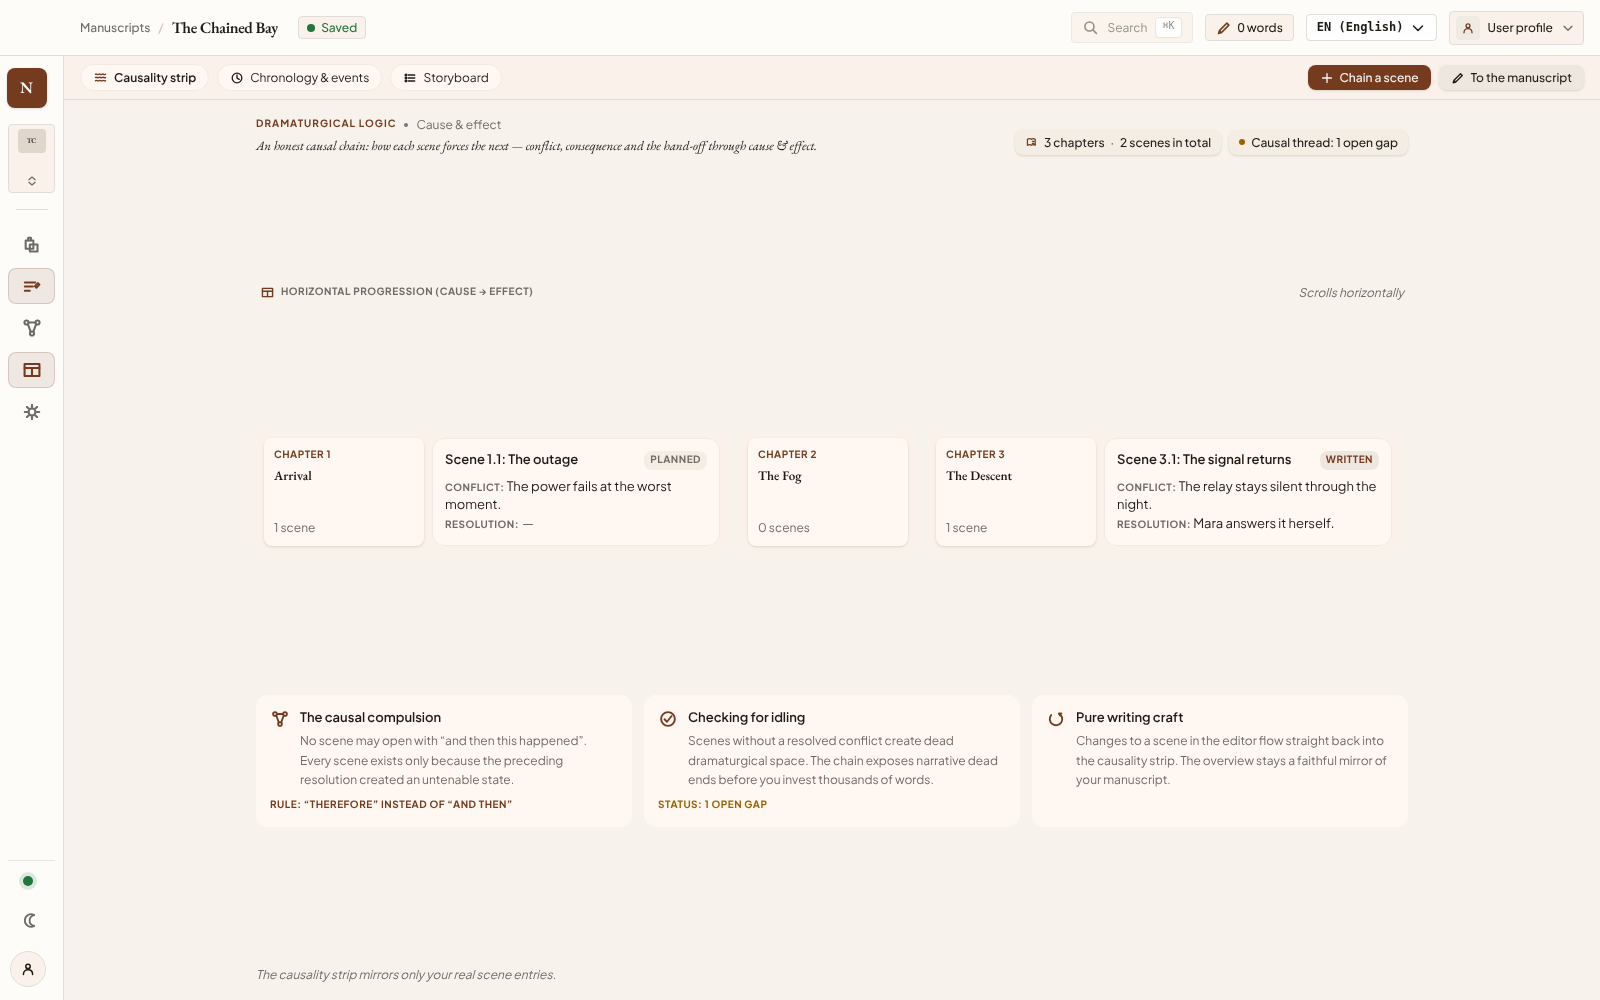
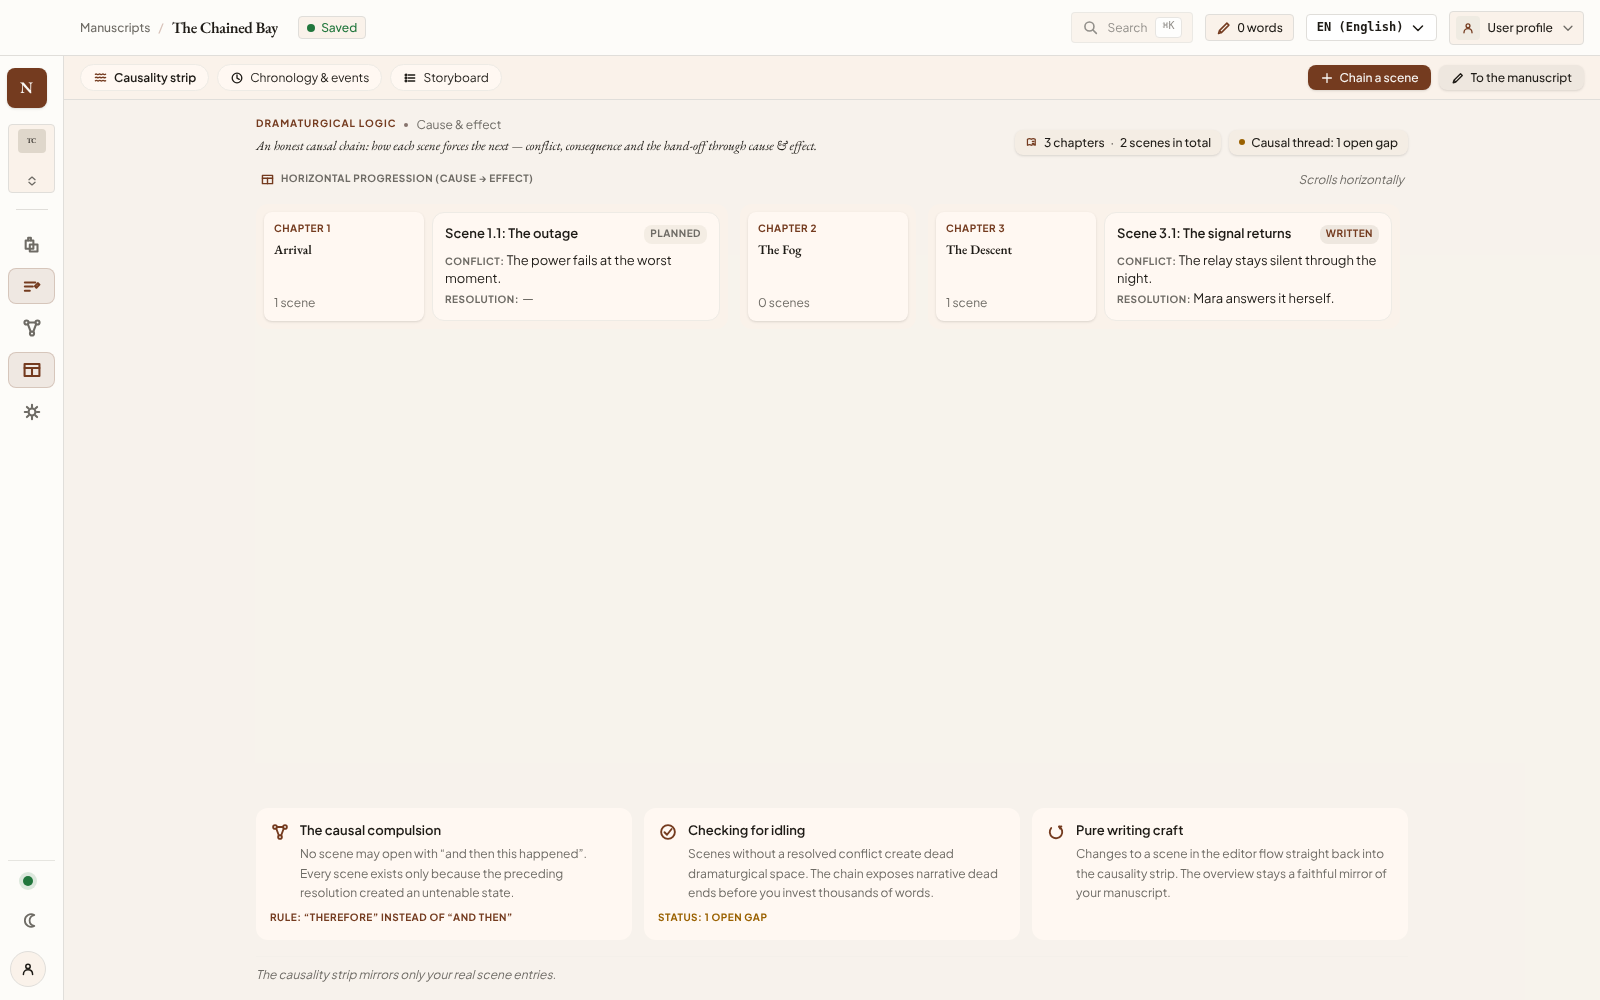
fix(planning): group causality content without stretching
Regroup the causality page's existing blocks into three visual groups:
the subline/count chips, the track header with its track in a flexible
middle column, and the methodology row with the footnote. The outer
column keeps min-h-full but no longer uses justify-between, so only the
middle group absorbs the spare height and the page shows one intentional
vertical gap instead of four stretched voids.

Add capture-time gap assertions for the three intra-group seams (48 px
ceiling). The previous stretched layout measured 129.9, 129.9 and 128.9
px across those seams and fails them; the grouped layout measures 16, 16
and 16 px while the footnote still ends 16 px above the viewport foot.
The middle group stays content-sized, so a taller page scrolls normally.

Update the stale German manuscript-excerpts assertion in the graph E2E to
the new dossier copy and run that leg.

Two independent full captures are byte-identical; only 27 changed, and
the sibling-staging publish path left no debris.

User-visible: The causality screenshot now keeps related blocks together and leaves one deliberate breathing space instead of four evenly stretched gaps.
Assisted-by: OpenCode (deepseek-v4.1-flash)

diff --git a/app/capabilities/planning/web/CausalityPage.tsx b/app/capabilities/planning/web/CausalityPage.tsx
@@ -412,10 +412,10 @@ export function CausalityPage() {
         /* The draft's face: the subline block with the real-count chips,
            the horizontally scrollable chain, the methodology row. */
         <div className="min-h-0 flex-1 overflow-y-auto bg-surface-container-low/30 p-4">
-          <div className="mx-auto flex min-h-full max-w-6xl flex-col justify-between gap-4">
-            {/* The subline — the draft's eyebrow, its honest sentence and
+          <div className="mx-auto flex min-h-full max-w-6xl flex-col gap-4">
+            {/* The top group — the draft's eyebrow, its honest sentence and
                 the real-count chips. */}
-            <div className="flex flex-wrap items-end justify-between gap-3">
+            <div data-testid="causality-subline" className="flex flex-wrap items-end justify-between gap-3">
               <div className="flex max-w-xl flex-col gap-1">
                 <div className="flex items-center gap-2">
                   <span className="text-[10px] font-bold uppercase tracking-widest text-primary">
@@ -463,67 +463,76 @@ export function CausalityPage() {
               </div>
             </div>
 
-            {/* The track header — the chain reads left-to-right; the
-                scroll affordance names itself. */}
-            <div className="flex items-center justify-between px-1">
-              <h2 className="flex items-center gap-1.5 text-[10px] font-bold uppercase tracking-wider text-muted">
-                <span className="text-primary">
-                  <Icon name="schema" size={15} />
-                </span>
-                {t("planning.causality.trackLabel")}
-              </h2>
-              <span className="text-meta italic text-muted">{t("planning.causality.trackHint")}</span>
-            </div>
+            {/* The middle group — the track header and the chain together.
+                Its flex-1 share is the page's one intentional vertical gap,
+                which stands between this group and the methodology row. */}
+            <div className="flex flex-1 flex-col gap-4">
+              {/* The track header — the chain reads left-to-right; the
+                  scroll affordance names itself. */}
+              <div data-testid="causality-track-header" className="flex items-center justify-between px-1">
+                <h2 className="flex items-center gap-1.5 text-[10px] font-bold uppercase tracking-wider text-muted">
+                  <span className="text-primary">
+                    <Icon name="schema" size={15} />
+                  </span>
+                  {t("planning.causality.trackLabel")}
+                </h2>
+                <span className="text-meta italic text-muted">{t("planning.causality.trackHint")}</span>
+              </div>
 
-            {/* The chain — the draft's horizontally scrollable track, the
-                chapter groups left-to-right with their connectors. The
-                tabIndex keeps the scrollable region on the keyboard (the
-                scrollable-region rule the axe floor runs). */}
-            <div
-              data-testid="causality-track"
-              aria-label={t("planning.causality.trackLabel")}
-              tabIndex={0}
-              className="w-full overflow-x-auto pb-2"
-            >
-              <div className="inline-flex min-w-max items-stretch gap-3 pr-3">
-                {chain.map((entry, index) =>
-                  chapterGroup(entry, index > 0 && (chain[index - 1]?.scenes.length ?? 0) > 0),
-                )}
+              {/* The chain — the draft's horizontally scrollable track, the
+                  chapter groups left-to-right with their connectors. The
+                  tabIndex keeps the scrollable region on the keyboard (the
+                  scrollable-region rule the axe floor runs). */}
+              <div
+                data-testid="causality-track"
+                aria-label={t("planning.causality.trackLabel")}
+                tabIndex={0}
+                className="w-full overflow-x-auto pb-2"
+              >
+                <div className="inline-flex min-w-max items-stretch gap-3 pr-3">
+                  {chain.map((entry, index) =>
+                    chapterGroup(entry, index > 0 && (chain[index - 1]?.scenes.length ?? 0) > 0),
+                  )}
+                </div>
               </div>
             </div>
 
-            {/* The methodology row — the draft's three boxes on the shell's
-                tokens; the diagnostics box counts the real gaps. */}
-            <div
-              data-testid="causality-bento"
-              className="grid grid-cols-1 gap-3 pt-1 md:grid-cols-3"
-            >
-              {METHODOLOGY.map(({ icon, title, body, footer }) => (
-                <div
-                  key={title}
-                  className="flex flex-col justify-between gap-2 rounded-[var(--radius-surface)] bg-card p-3.5 shadow-card"
-                >
-                  <div className="flex items-start gap-2.5">
-                    <span aria-hidden="true" className="text-primary">
-                      <Icon name={icon} size={20} />
-                    </span>
-                    <div className="flex flex-col gap-1">
-                      <h3 className="text-label font-semibold text-foreground">{t(title)}</h3>
-                      <p className="text-meta leading-relaxed text-muted">{t(body)}</p>
+            {/* The bottom group — the methodology row and the footnote stay
+                together at the foot of the page. */}
+            <div className="flex flex-col gap-4">
+              {/* The methodology row — the draft's three boxes on the shell's
+                  tokens; the diagnostics box counts the real gaps. */}
+              <div
+                data-testid="causality-bento"
+                className="grid grid-cols-1 gap-3 pt-1 md:grid-cols-3"
+              >
+                {METHODOLOGY.map(({ icon, title, body, footer }) => (
+                  <div
+                    key={title}
+                    className="flex flex-col justify-between gap-2 rounded-[var(--radius-surface)] bg-card p-3.5 shadow-card"
+                  >
+                    <div className="flex items-start gap-2.5">
+                      <span aria-hidden="true" className="text-primary">
+                        <Icon name={icon} size={20} />
+                      </span>
+                      <div className="flex flex-col gap-1">
+                        <h3 className="text-label font-semibold text-foreground">{t(title)}</h3>
+                        <p className="text-meta leading-relaxed text-muted">{t(body)}</p>
+                      </div>
                     </div>
+                    {footer?.(t, gaps ?? 0)}
                   </div>
-                  {footer?.(t, gaps ?? 0)}
-                </div>
-              ))}
-            </div>
+                ))}
+              </div>
 
-            {/* The bottom disclaimer — the draft's footnote, reworded into
-                the vocabulary gate's own law: the strip mirrors only the
-                novel's real scene entries, and claims nothing beyond them
-                (the owner's one-key ruling). */}
-            <p data-testid="causality-note" className="border-t border-rule/30 pt-2 text-meta italic leading-relaxed text-muted">
-              {t("planning.causality.laterNote")}
-            </p>
+              {/* The bottom disclaimer — the draft's footnote, reworded into
+                  the vocabulary gate's own law: the strip mirrors only the
+                  novel's real scene entries, and claims nothing beyond them
+                  (the owner's one-key ruling). */}
+              <p data-testid="causality-note" className="border-t border-rule/30 pt-2 text-meta italic leading-relaxed text-muted">
+                {t("planning.causality.laterNote")}
+              </p>
+            </div>
           </div>
         </div>
       )}

diff --git a/scripts/screenshots.py b/scripts/screenshots.py
@@ -193,6 +193,22 @@ def _require_inside(
         )
 
 
+def _require_small_gap(first: Locator, second: Locator, *, name: str, maximum: float = 48) -> None:
+    """Fail when two stacked blocks sit farther apart than a normal group gap.
+
+    The causality page's groups keep their own ``gap-4`` rhythm; only the
+    flexible middle group absorbs the spare height. A stretched layout that
+    spreads every block fails here instead of shipping four wide voids.
+    """
+    first_box = first.bounding_box()
+    second_box = second.bounding_box()
+    if first_box is None or second_box is None:
+        raise SystemExit(f"{name}: nothing to measure")
+    gap = second_box["y"] - (first_box["y"] + first_box["height"])
+    if gap > maximum:
+        raise SystemExit(f"{name}: {gap:.1f}px gap exceeds {maximum:.1f}px")
+
+
 def _scroll_to_show_bottom(container: Locator, target: Locator, *, margin: float = 8) -> None:
     """Scroll a real container just enough that the target's bottom is inside."""
     box = target.bounding_box()
@@ -925,10 +941,20 @@ def _capture(
     # The content column distributes its five real blocks over the page height:
     # the top counts stay reachable and the footnote lands near the foot, so
     # the frame does not leave the lower half as accidental whitespace.
+    # The content column groups its blocks instead of stretching every one:
+    # the subline, header+track and methodology+footnote keep their normal
+    # 16px rhythm, and only the middle group's flex-1 share is a large gap.
+    subline = page.get_by_test_id("causality-subline")
+    header = page.get_by_test_id("causality-track-header")
+    bento = page.get_by_test_id("causality-bento")
     counts = page.get_by_test_id("causality-counts")
     note = page.get_by_test_id("causality-note")
+    _require_inside(subline, name="causality subline", top=TOP_BAR_HEIGHT)
     _require_inside(counts, name="causality counts", top=TOP_BAR_HEIGHT)
     _require_inside(note, name="causality footnote", top=TOP_BAR_HEIGHT)
+    _require_small_gap(subline, header, name="subline to track header")
+    _require_small_gap(header, track, name="track header to track")
+    _require_small_gap(bento, note, name="methodology to footnote")
     note_box = note.bounding_box()
     if note_box is None:
         raise SystemExit("the causality footnote has no box")

diff --git a/app/capabilities/knowledge/e2e/test_graph_e2e.py b/app/capabilities/knowledge/e2e/test_graph_e2e.py
@@ -269,7 +269,7 @@ def test_a_node_opens_its_dossier_and_the_edit_is_real(page: Page, installed: St
     expect(dossier).to_contain_text("Kavic appears in the chapter.")
     # The invented status stays a neutral gap row; the excerpts gap stands.
     expect(dossier).to_contain_text("Status")
-    expect(dossier).to_contain_text("Fundstellen im Manuskript werden noch nicht erfasst.")
+    expect(dossier).to_contain_text("Hier erscheinen Manuskriptverweise.")
     # Both real edges, both directions — the other end named as a door. The
     # select door's name STARTS with the end's name; the edit/delete
     # affordances beside it carry „Relation …: {name}" — anchor the name so
